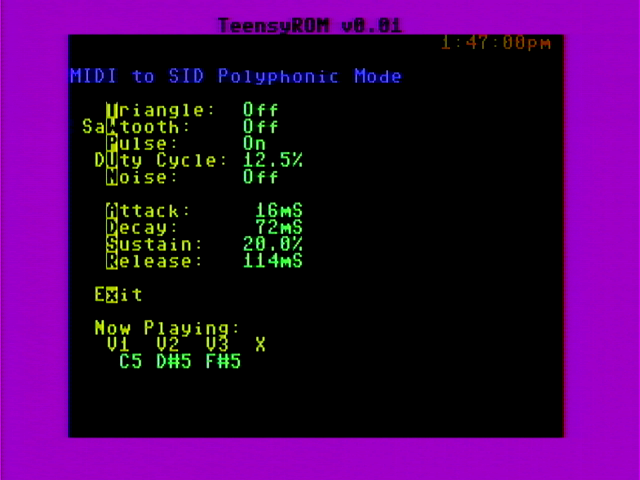
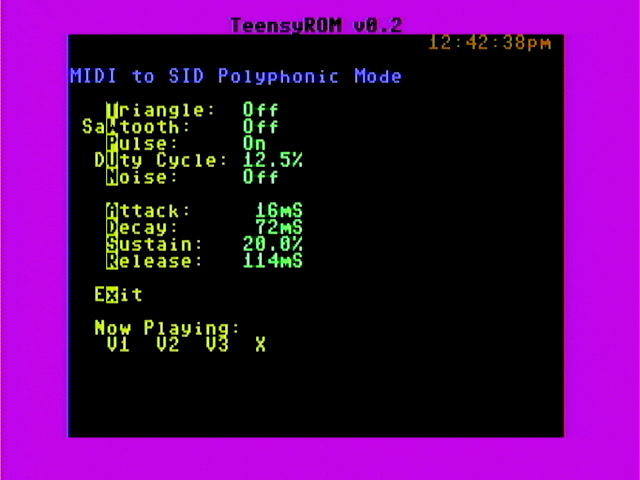
Readme/doc/screen capture updates

diff --git a/README.md b/README.md
@@ -25,28 +25,29 @@ The primary change is the addition of Ethernet and USB host connectors to elimin
 ![TeensyROM pic1](https://github.com/SensoriumEmbedded/TeensyROM/raw/main/pics-info/v0.2/v0.2%20ang.jpg)
 Component selection was done using parts large enough (SOIC and 0805s at the smallest) that any soldering enthusiast should be able to assemble themselves.   Since high volume production isn't necessarily the vision for this device, 2 sided SMT was used to reduce the PCB size while still accommodating larger IC packages.
    
-## Compataibility
+## Compatibility
 TeensyROM been tested on about a dozen NTSC C64 and C64C machines to this point.  Waiting for VIC-II Kawari availability to implement PAL timing  :) 
 
-## Potential future SW development/features:
+## Future/potential SW development/features:
 * REU support using PSRAM
 * Special cartridge HW emulation
 * .d64, .tap file support
   * drive emulation via custom Kernal
 * Other HW Support: PAL, 50Hz, C128
 * Modem emulation via Ethernet connection
+* Method to save from USB/PC to SD or USB Drive
 * MIDI interface enhancements:
   * Single note, multi-voice/filter/ring
   * Simulate other released MIDI interfaces
 
-## Pictures/screen captures/videos:
+## Demo Videos:
+*  [TeensyROM real-time video/audio capture](https://www.youtube.com/watch?v=RyowR9huh0A) of menu navigation and loading/running/emulating various programs/cartridges
+* [MIDI2SID Demo ](https://www.youtube.com/watch?v=3BsX_jxIYKY) using MIDI keyboard => TeensyROM => C64/SID
+## Pictures/screen captures:
 | ![TeensyROM pic1](https://github.com/SensoriumEmbedded/TeensyROM/raw/main/pics-info/v0.2/v0.2%20top.jpg) | ![TeensyROM pic1](https://github.com/SensoriumEmbedded/TeensyROM/raw/main/pics-info/v0.2/20230307_164007.jpg) | 
 |--|--|
 ![TeensyROM pic1](https://github.com/SensoriumEmbedded/TeensyROM/raw/main/pics-info/v0.2/20230307_163653.jpg) |![TeensyROM pic1](https://github.com/SensoriumEmbedded/TeensyROM/raw/main/pics-info/v0.2/20230308_121851%20edit.jpg)  |
-|Main Menu|MIDI2SID|
-
-**Links to Demo videos:**
-* TeensyROM real-time menu navigation and loading
-* [MIDI2SID Demo](https://www.youtube.com/watch?v=3BsX_jxIYKY)
-
+|![TeensyROM pic1](https://github.com/SensoriumEmbedded/TeensyROM/raw/main/pics-info/Screen%20captures/Main%20Menu.png)|![TeensyROM pic1](https://github.com/SensoriumEmbedded/TeensyROM/raw/main/pics-info/Screen%20captures/MIDI%20to%20SID.png)|
+![TeensyROM pic1](https://github.com/SensoriumEmbedded/TeensyROM/raw/main/pics-info/Screen%20captures/WinPC%20x-fer%20app.png)|
 See [pics-info](https://github.com/SensoriumEmbedded/TeensyROM/tree/main/pics-info) folder for more, including some oscilloscope shots showing VIC cycle timing.
+

diff --git a/PCB/PCB_Readme.md b/PCB/PCB_Readme.md
@@ -1,11 +1,12 @@
 
-## **v0.2: Released 2/23/22**
-**Second protype, Link to designOSH Park :** 
-&nbsp;&nbsp;&nbsp;&nbsp;&nbsp;&nbsp; <a href="https://oshpark.com/shared_projects/zJfB98zq"><img src="https://oshpark.com/packs/media/images/badge-5f4e3bf4bf68f72ff88bd92e0089e9cf.png" alt="Order from OSH Park"></img></a>
-**Changes from 0.1 PCB:**
+## **v0.2: Released Feb 23, 2023**
+![TeensyROM v0.2](https://github.com/SensoriumEmbedded/TeensyROM/raw/main/pics-info/v0.2/v0.2%20top.jpg)
+### **Link to design at OSH Park :**    <a href="https://oshpark.com/shared_projects/zJfB98zq"><img src="https://oshpark.com/packs/media/images/badge-5f4e3bf4bf68f72ff88bd92e0089e9cf.png" alt="Order from OSH Park"></img></a>
+
+### **Changes from 0.1 PCB:**
   * New features:
-    * Ethernet port
-    * USB host port
+    * Ethernet port connector
+    * USB host port connector
   * Other Improvements/Notes:
     * Corrected: Data bits 2 and 1 swapped in v0.1 (worked around in SW)
     * shield connections:  USB is GND, Eth shorted to gnd via JP1
@@ -21,6 +22,10 @@
     * BOM/REF des updated
     * Text size/vectors same for ref-des
 
-## **v0.1: Released 1/29/23**
-   First prototype, fully tested and works with released code using "#define HWv0_1_PCB" build option
-   No USB Host or Ethernet connectors, dongles directly from Teensy needed for these
+## **v0.1: Released January 29, 2023**
+![TeensyROM v0.1](https://github.com/SensoriumEmbedded/TeensyROM/raw/main/pics-info/v0.1/v0.1.jpg)   First PCB prototype, fully tested and working with released code using "#define HWv0_1_PCB" build option
+   No USB Host or Ethernet connectors, dongles directly from Teensy needed for these.  This makes this board slightly smaller.
+
+## **v0.0: Early January 23**
+![TeensyROM v0.0](https://github.com/SensoriumEmbedded/TeensyROM/raw/main/pics-info/v0.0/v0.0.jpg)
+Protoboard proof of concept.  It worked in proving the basic concept and allowed PCB design with confidence. 

diff --git a/Source/BuildInfo.md b/Source/BuildInfo.md
@@ -1,0 +1,12 @@
+
+Todo:  add to this...
+
+
+C64: ACME Compiler, bin2header
+   Customize build batch file
+
+Teensy: Arduino/Teensyduino
+
+
+Windows: C# MS Visual Studio
+
